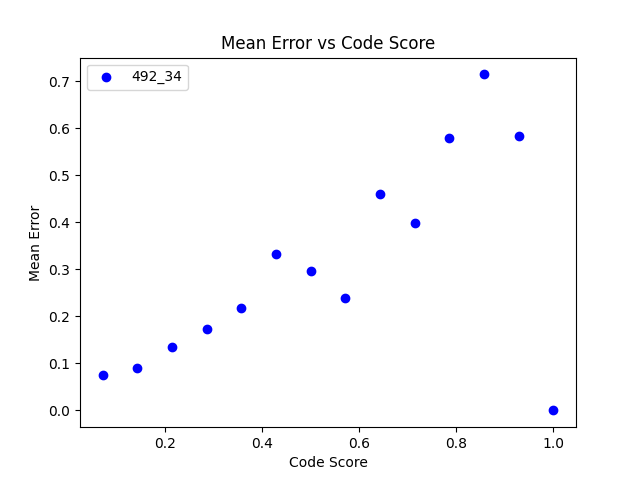
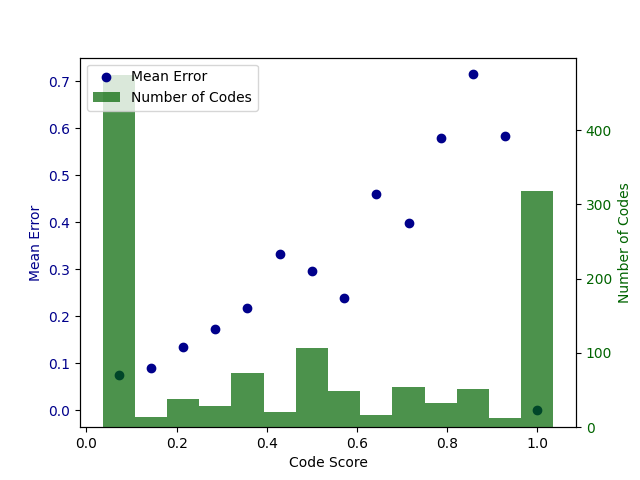
add plots

diff --git a/exercise_generation/gt_test_case_generation/plot_micro_stats.py b/exercise_generation/gt_test_case_generation/plot_micro_stats.py
@@ -3,12 +3,70 @@ import os
 import json 
 import matplotlib.pyplot as plt 
 from collections import defaultdict
+import numpy as np
+
 
 def get_q_dict(df):
     q_dict = dict()
     for i, row in df.iterrows():
         q_dict['{:d}_{:d}'.format(int(row['AssignmentID']), row['ProblemID'])] = row['q']
     return q_dict
+
+def plot_score_data(x_and_score_values, prob, save_dir):
+    plt.figure()
+    plt.scatter(x_and_score_values['x'], x_and_score_values['y'], label=prob, color='darkblue', marker='o')
+
+    # plt.plot(x_and_score_values['x'], x_and_score_values['y'], label=prob)
+
+    # Adding labels and title
+    plt.xlabel('Code Score')
+    plt.ylabel('Mean Error')
+    plt.title('Mean Error vs Code Score')
+
+    plt.legend()
+    plt.savefig(os.path.join(save_dir, '{:s}_error.png'.format(prob)))
+
+    # Close the figure to avoid overlapping plots
+    plt.close()
+
+def scatter_and_bar_plot(x_and_score_values, x_and_length_values, prob, save_dir):
+    '''
+    Scatter plot and the bar plot on the same plot
+    '''
+    plt.figure()
+    x_values = list(x_and_score_values['x'])
+    error_values = list(x_and_score_values['y'])
+    length_values = list(x_and_length_values['y'])
+    # print(x_and_length_values)
+
+    # Create a figure and axis
+    fig, ax1 = plt.subplots()
+
+    # Plotting the scatter plot on the left y-axis (ax1)
+    ax1.scatter(x_values, error_values, color='darkblue', label='Mean Error')
+    ax1.set_xlabel('Code Score')
+    ax1.set_ylabel('Mean Error', color='darkblue')
+    ax1.tick_params(axis='y', labelcolor='darkblue')
+
+    # Create a second y-axis (ax2) on the right
+    ax2 = ax1.twinx()
+    bar_width = np.min(np.diff(sorted(x_values)))  # Adjust the width based on your data
+    # ax2.vlines(x_values, ymin=0, ymax=length_values, colors='darkgreen', alpha=0.7, label='Number of codes')
+    ax2.bar(x_values, length_values, width=bar_width, alpha=0.7, color='darkgreen', label='Number of Codes')
+    ax2.set_ylabel('Number of Codes', color='darkgreen')
+    ax2.tick_params(axis='y', labelcolor='darkgreen')
+
+    # Adding a legend
+    lines, labels = ax1.get_legend_handles_labels()
+    lines2, labels2 = ax2.get_legend_handles_labels()
+    ax2.legend(lines + lines2, labels + labels2, loc='upper left')
+
+    # save figure
+    plt.savefig(os.path.join(save_dir, '{:s}.png'.format(prob)))
+
+    # Close the figure to avoid overlapping plots
+    plt.close()
+    
 
 def plot_data(score_dist, prb_q_dict):
     save_dir = 'plots'
@@ -24,34 +82,26 @@ def plot_data(score_dist, prb_q_dict):
         # print(score_sorted_dict)
 
 
-        x_and_y_values = defaultdict(list)
+        x_and_score_values = defaultdict(list)
+        x_and_length_values = defaultdict(list)
         for p, score_lst in score_sorted_dict.items():
-            x_and_y_values['x'].append(p/prb_q_dict[prob])
-            x_and_y_values['y'].append(sum(score_lst)/len(score_lst))
+            score = p/prb_q_dict[prob]
+            # fill x_and_score_values
+            x_and_score_values['x'].append(score)
+            x_and_score_values['y'].append(sum(score_lst)/len(score_lst))
+            # fill x_and_length_values
+            x_and_length_values['x'].append(score)
+            x_and_length_values['y'].append(len(score_lst))
         # TODO: plot the data 
         # Plotting the data
         # Create a new figure for each iteration
         # print(prob_wise_avg_score[prob].keys())
         # print(prob_wise_avg_score[prob].values())
-        # print(x_and_y_values['x'])
-        # print(x_and_y_values['y'])
+        # print(x_and_score_values['x'])
+        # print(x_and_score_values['y'])
 
-
-        plt.figure()
-        plt.scatter(x_and_y_values['x'], x_and_y_values['y'], label=prob, color='blue', marker='o')
-
-        # plt.plot(x_and_y_values['x'], x_and_y_values['y'], label=prob)
-
-        # Adding labels and title
-        plt.xlabel('Code Score')
-        plt.ylabel('Mean Error')
-        plt.title('Mean Error vs Code Score')
-
-        plt.legend()
-        plt.savefig(os.path.join(save_dir, '{:s}.png'.format(prob)))
-
-        # Close the figure to avoid overlapping plots
-        plt.close()
+        # Plot x_and_score_values
+        scatter_and_bar_plot(x_and_score_values, x_and_length_values, prob, save_dir)
 
 
 
